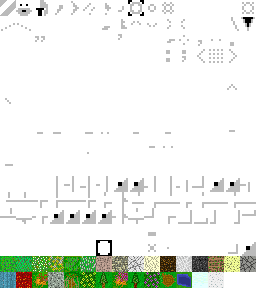
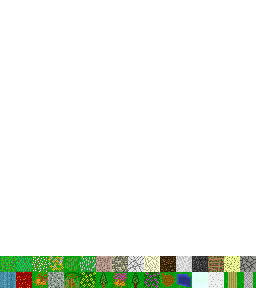
Integrated graphics with new font, fixed hidden tile.

diff --git a/JOBS.md b/JOBS.md
@@ -42,12 +42,12 @@
 - [x] Generate beaches
 - [x] Show cursor more consistantly over tiles
 - [x] Improve main menu responsiveness
-- [ ] Balance soil distrobution
+- [x] Balance soil distrobution
 - [ ] Increase beach size
 - [ ] Night/day cycle
 - [ ] Weather cycle
 - [ ] Season cycle
-- [ ] Fix certain tiles not drawing
+- [x] Fix certain tiles not drawing
 - [ ] Add loading screen
 - [ ] Basic physics (cave-ins, gravity)
 - [ ] Load terrain from seed
@@ -60,7 +60,7 @@
 - [ ] Group types of plants
 - [ ] Terrain collision detection
 - [ ] Animals
-- [ ] Use Guile to write AI and properties
+- [ ] Use Lua to write AI and properties
 - [ ] Generate animals by ecosystem
 - [ ] Animal predators/prey
 - [ ] Special animal behaviour
